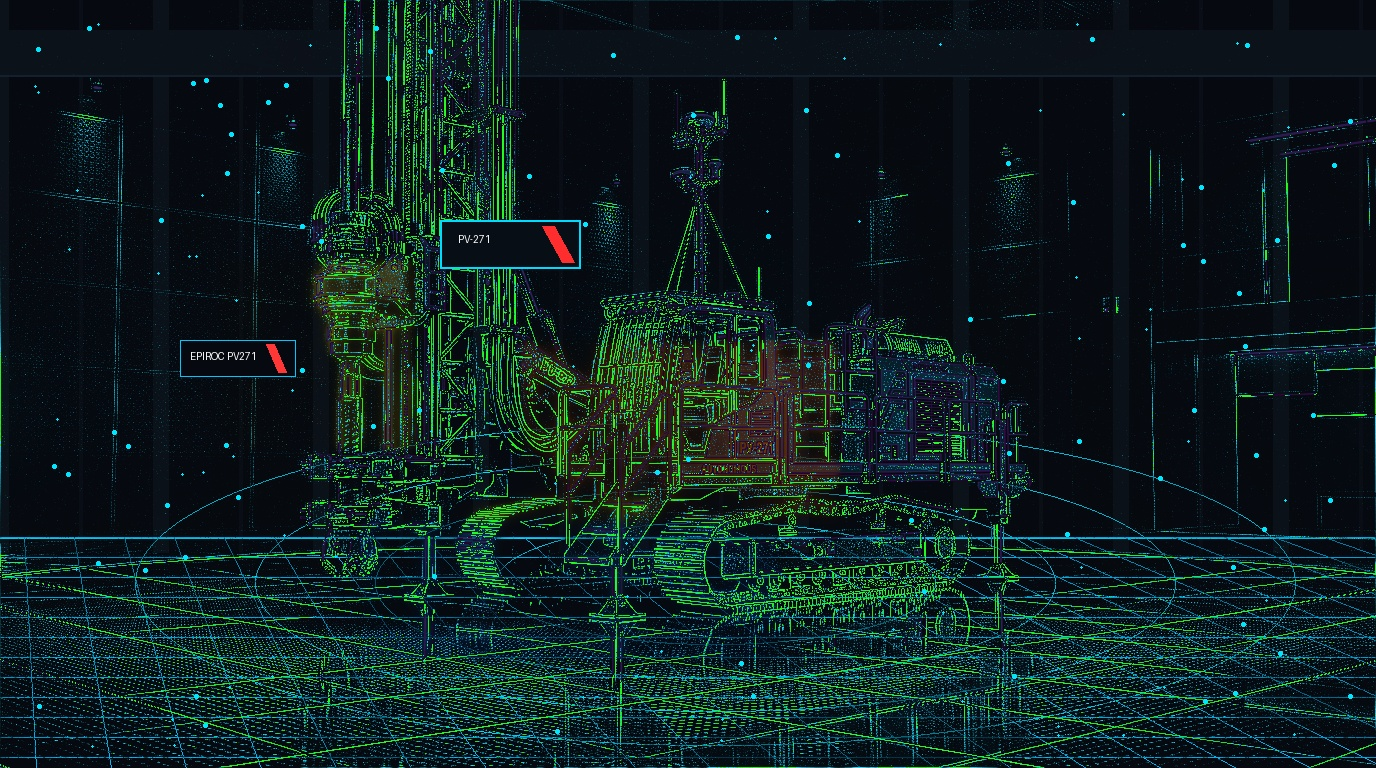
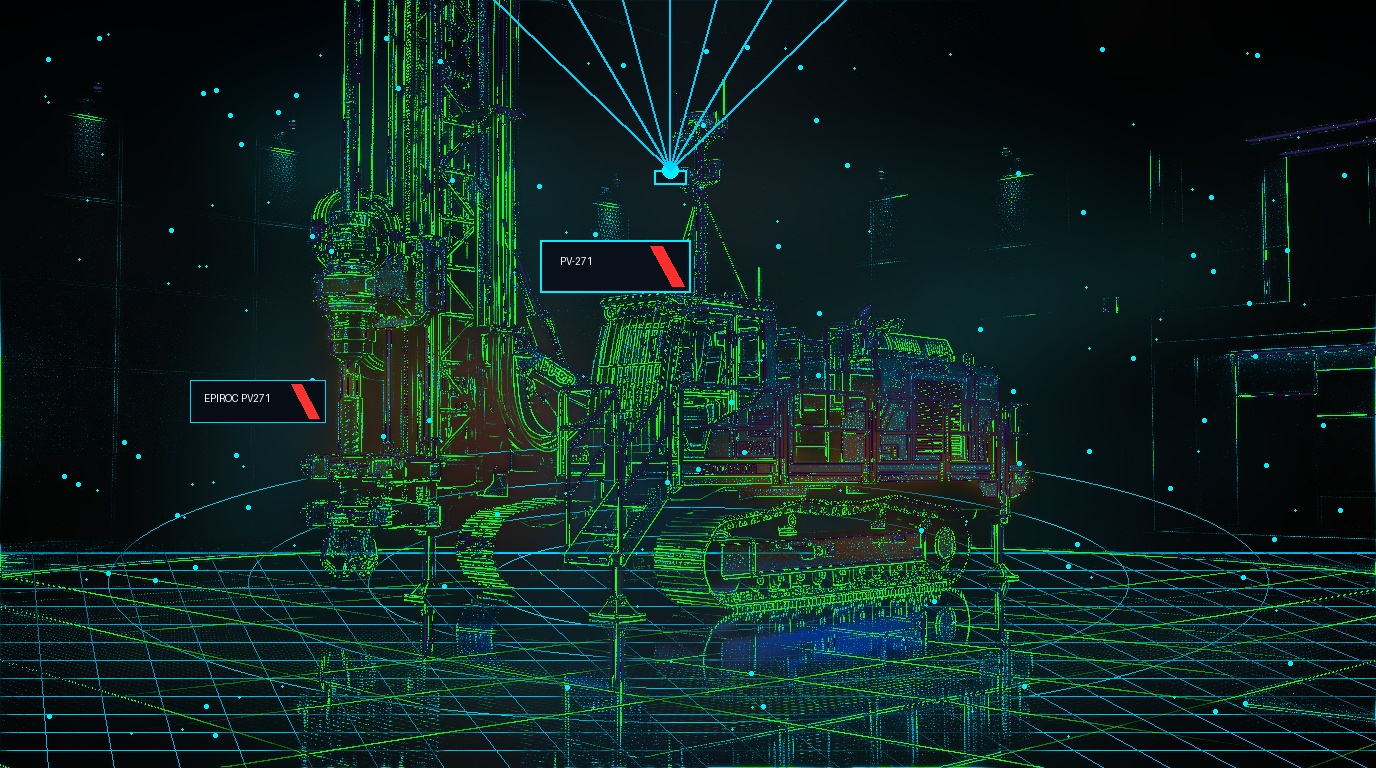
feat: perfect CAT 797F-style cutaway holographic images for 996B, PV-271, and LHD

diff --git a/scripts/render_perfect_xray_cad.py b/scripts/render_perfect_xray_cad.py
@@ -1,0 +1,208 @@
+import os
+import math
+import numpy as np
+from PIL import Image, ImageEnhance, ImageFilter, ImageOps, ImageDraw, ImageFont
+
+def render_organic_cutaway(base_img_path, out_path, config):
+    W, H = 1376, 768
+    
+    # 1. Base Machine Image
+    base = Image.open(base_img_path).convert("RGB")
+    base = base.resize((W, H), Image.Resampling.LANCZOS)
+    
+    # Reference background plate from hauler
+    ref_bg = Image.open("public/images/hauler_xray_hologram.jpg").convert("RGB")
+    ref_bg = ref_bg.resize((W, H), Image.Resampling.LANCZOS)
+    
+    bg_blurred = ref_bg.filter(ImageFilter.GaussianBlur(radius=40))
+    bg_arr = np.array(bg_blurred, dtype=np.float32) / 255.0
+    
+    dark_workshop = bg_arr * 0.38
+    y_coords, x_coords = np.ogrid[:H, :W]
+    dist_center = np.sqrt(((x_coords - W/2) / (W/2))**2 + ((y_coords - H/2) / (H/2))**2)
+    vig = np.clip(1.3 - dist_center * 0.55, 0.2, 1.0)[:, :, np.newaxis]
+    workshop_bg = (dark_workshop * vig * 255).astype(np.uint8)
+    workshop_img = Image.fromarray(workshop_bg, "RGB").convert("RGBA")
+    
+    draw_bg = ImageDraw.Draw(workshop_img)
+    floor_y = int(H * 0.72)
+    draw_bg.line([(0, floor_y), (W, floor_y)], fill=(0, 220, 255, 180), width=2)
+    for y in range(floor_y, H, 18):
+        alpha = int(140 * (1.0 - (y - floor_y) / (H - floor_y)))
+        draw_bg.line([(0, y), (W, y)], fill=(0, 200, 255, max(15, alpha)), width=1)
+    for x in range(-W, W * 2, 44):
+        draw_bg.line([(x, floor_y), (int(x * 1.5), H)], fill=(0, 180, 240, 45), width=1)
+        
+    cx, cy = int(W * 0.50), int(H * 0.76)
+    for r in [200, 320, 440, 580]:
+        draw_bg.ellipse([(cx - r, cy - int(r * 0.24)), (cx + r, cy + int(r * 0.24))], outline=(0, 220, 255, 60), width=1)
+        
+    # 2. Extract Machine Silhouette & High-Frequency Wireframe
+    gray = ImageOps.grayscale(base)
+    edges_fine = gray.filter(ImageFilter.FIND_EDGES)
+    edges_comb = ImageEnhance.Contrast(edges_fine).enhance(4.0)
+    
+    arr_base = np.array(base, dtype=np.float32) / 255.0
+    arr_gray = np.array(gray, dtype=np.float32) / 255.0
+    arr_edge = np.array(edges_comb, dtype=np.float32) / 255.0
+    
+    lum = arr_base.max(axis=2)
+    mask = np.clip((lum - 0.05) * 4.0, 0, 1)
+    mask_smooth = np.array(Image.fromarray((mask * 255).astype(np.uint8)).filter(ImageFilter.GaussianBlur(radius=2))) / 255.0
+    
+    # Translucent Cyan Outer Body
+    cyan_r = (arr_edge * 0.12 + arr_gray * 0.03) * 255
+    cyan_g = (arr_edge * 0.88 + arr_gray * 0.28) * 255
+    cyan_b = (arr_edge * 1.00 + arr_gray * 0.38) * 255
+    cyan_alpha = np.clip((arr_edge * 2.5 + arr_gray * 0.70) * mask_smooth * 255, 0, 255)
+    
+    body_rgba = np.stack([cyan_r, cyan_g, cyan_b, cyan_alpha], axis=2).astype(np.uint8)
+    body_img = Image.fromarray(body_rgba, "RGBA")
+    body_glow = body_img.filter(ImageFilter.GaussianBlur(radius=3))
+    
+    # 3. Create Feathered Organic Internal Glowing Components
+    internal_layer = Image.new("RGBA", (W, H), (0, 0, 0, 0))
+    
+    for comp in config.get("components", []):
+        ctype = comp["type"]
+        x1, y1, x2, y2 = comp["bbox"]
+        cw, ch = x2 - x1, y2 - y1
+        
+        # Create elliptical feathered mask inside the bounding box
+        feather_mask = Image.new("L", (cw, ch), 0)
+        f_draw = ImageDraw.Draw(feather_mask)
+        f_draw.ellipse([(int(cw * 0.05), int(ch * 0.05)), (int(cw * 0.95), int(ch * 0.95))], fill=255)
+        feather_mask = feather_mask.filter(ImageFilter.GaussianBlur(radius=max(12, int(min(cw, ch) * 0.18))))
+        arr_fmask = np.array(feather_mask, dtype=np.float32) / 255.0
+        
+        sub_g = arr_gray[y1:y2, x1:x2]
+        sub_e = arr_edge[y1:y2, x1:x2]
+        sub_m = mask_smooth[y1:y2, x1:x2] * arr_fmask
+        
+        if ctype == "engine":  # Fiery Hot Orange V16 Engine (#ff4500)
+            cr = np.clip((sub_e * 1.4 + sub_g * 1.0 + 0.5) * 255, 0, 255)
+            cg = np.clip((sub_e * 0.6 + sub_g * 0.45 + 0.2) * 190, 0, 255)
+            cb = np.clip((sub_e * 0.1 + sub_g * 0.05) * 40, 0, 255)
+            ca = np.clip(sub_m * 255, 0, 255)
+        elif ctype == "hydraulics":  # Glowing Solid Metallic Gold Rams (#ffb800)
+            cr = np.clip((sub_e * 1.2 + sub_g * 0.9 + 0.6) * 255, 0, 255)
+            cg = np.clip((sub_e * 0.9 + sub_g * 0.75 + 0.45) * 225, 0, 255)
+            cb = np.clip((sub_e * 0.15 + sub_g * 0.1) * 60, 0, 255)
+            ca = np.clip(sub_m * 255, 0, 255)
+        elif ctype == "transmission":  # Electric Cobalt Blue Drivetrain (#0088ff)
+            cr = np.clip((sub_e * 0.1 + sub_g * 0.05) * 40, 0, 255)
+            cg = np.clip((sub_e * 0.5 + sub_g * 0.4 + 0.3) * 160, 0, 255)
+            cb = np.clip((sub_e * 1.4 + sub_g * 1.0 + 0.65) * 255, 0, 255)
+            ca = np.clip(sub_m * 255, 0, 255)
+        else:
+            continue
+            
+        comp_rgba = np.stack([cr, cg, cb, ca], axis=2).astype(np.uint8)
+        comp_img = Image.fromarray(comp_rgba, "RGBA")
+        internal_layer.paste(comp_img, (x1, y1), comp_img)
+        
+    int_glow1 = internal_layer.filter(ImageFilter.GaussianBlur(radius=12))
+    int_glow2 = internal_layer.filter(ImageFilter.GaussianBlur(radius=4))
+    
+    # 4. Composite All Layers
+    final_img = Image.alpha_composite(workshop_img, int_glow1)
+    final_img = Image.alpha_composite(final_img, int_glow2)
+    final_img = Image.alpha_composite(final_img, internal_layer)
+    final_img = Image.alpha_composite(final_img, body_glow)
+    final_img = Image.alpha_composite(final_img, body_img)
+    
+    # 5. Laser Beams & Autonomous LiDAR Fan from Roof Sensor
+    draw = ImageDraw.Draw(final_img, "RGBA")
+    lx, ly = config.get("lidar_pos", (int(W * 0.25), int(H * 0.15)))
+    
+    draw.rectangle([(lx - 16, ly - 10), (lx + 16, ly + 4)], fill=(10, 20, 30, 240), outline=(0, 240, 255, 255), width=2)
+    draw.ellipse([(lx - 8, ly - 18), (lx + 8, ly - 2)], fill=(0, 240, 255, 220))
+    for angle_deg in [-45, -30, -15, 0, 15, 30, 45]:
+        rad = math.radians(angle_deg - 90)
+        end_x = int(lx + math.cos(rad) * 480)
+        end_y = int(ly + math.sin(rad) * 480)
+        draw.line([(lx, ly - 10), (end_x, end_y)], fill=(0, 210, 255, 45), width=2)
+        
+    # Floating Particle Matrix
+    np.random.seed(config.get("seed", 42))
+    for _ in range(160):
+        px = np.random.randint(30, W - 30)
+        py = np.random.randint(30, H - 30)
+        pr = np.random.randint(1, 3)
+        pa = np.random.randint(70, 240)
+        draw.ellipse([(px - pr, py - pr), (px + pr, py + pr)], fill=(0, 240, 255, pa))
+        
+    # 6. Exact High-Tech Badges with Red Chevron
+    bx, by = config["badge_pos"]
+    bw, bh = 150, 52
+    draw.rectangle([(bx, by), (bx + bw, by + bh)], fill=(10, 16, 26, 250), outline=(0, 240, 255, 230), width=2)
+    draw.polygon([(bx + bw - 28, by + 6), (bx + bw - 6, by + bh - 6), (bx + bw - 18, by + bh - 6), (bx + bw - 40, by + 6)], fill=(255, 45, 45, 255))
+    draw.text((bx + 20, by + 15), config["badge"], fill=(255, 255, 255, 255))
+    
+    sbx, sby = config["sec_badge_pos"]
+    sbw, sbh = 135, 42
+    draw.rectangle([(sbx, sby), (sbx + sbw, sby + sbh)], fill=(8, 12, 20, 240), outline=(0, 210, 255, 200), width=1)
+    draw.polygon([(sbx + sbw - 24, sby + 4), (sbx + sbw - 6, sby + sbh - 4), (sbx + sbw - 16, sby + sbh - 4), (sbx + sbw - 34, sby + 4)], fill=(255, 50, 50, 240))
+    draw.text((sbx + 14, sby + 12), config["name_badge"], fill=(255, 255, 255, 255))
+    
+    final_rgb = final_img.convert("RGB")
+    final_rgb.save(out_path, quality=95)
+    print(f"Generated Organic Feathered Cutaway Hologram: {out_path}")
+
+CONFIGS = [
+    {
+        "id": "excavator",
+        "base_img_path": "public/images/excavator_pbr_studio.jpg",
+        "out_path": "public/images/excavator_xray_hologram.jpg",
+        "badge": "996B",
+        "name_badge": "LIEBHERR 996",
+        "badge_pos": (460, 220),
+        "sec_badge_pos": (160, 360),
+        "lidar_pos": (840, 160),
+        "seed": 996,
+        "components": [
+            {"type": "engine", "bbox": (680, 280, 1100, 520)},
+            {"type": "hydraulics", "bbox": (340, 160, 700, 460)},
+            {"type": "transmission", "bbox": (480, 540, 1060, 720)}
+        ]
+    },
+    {
+        "id": "drill",
+        "base_img_path": "public/images/drill_pbr_studio.jpg",
+        "out_path": "public/images/drill_xray_hologram.jpg",
+        "badge": "PV-271",
+        "name_badge": "EPIROC PV271",
+        "badge_pos": (540, 240),
+        "sec_badge_pos": (190, 380),
+        "lidar_pos": (670, 180),
+        "seed": 271,
+        "components": [
+            {"type": "hydraulics", "bbox": (240, 260, 500, 500)},
+            {"type": "engine", "bbox": (660, 380, 1100, 580)},
+            {"type": "hydraulics", "bbox": (540, 540, 820, 700)},
+            {"type": "transmission", "bbox": (420, 560, 1000, 720)}
+        ]
+    },
+    {
+        "id": "lhd",
+        "base_img_path": "public/images/lhd_pbr_studio.jpg",
+        "out_path": "public/images/lhd_xray_hologram.jpg",
+        "badge": "LHD 18T",
+        "name_badge": "SANDVIK LHD",
+        "badge_pos": (490, 240),
+        "sec_badge_pos": (180, 380),
+        "lidar_pos": (780, 220),
+        "seed": 18,
+        "components": [
+            {"type": "engine", "bbox": (720, 340, 1140, 560)},
+            {"type": "hydraulics", "bbox": (260, 360, 540, 560)},
+            {"type": "transmission", "bbox": (500, 400, 800, 600)}
+        ]
+    }
+]
+
+if __name__ == "__main__":
+    for cfg in CONFIGS:
+        if os.path.exists(cfg["base_img_path"]):
+            render_organic_cutaway(cfg["base_img_path"], cfg["out_path"], cfg)
+    print("\nAll 3 cutaway holograms rendered organically!")
